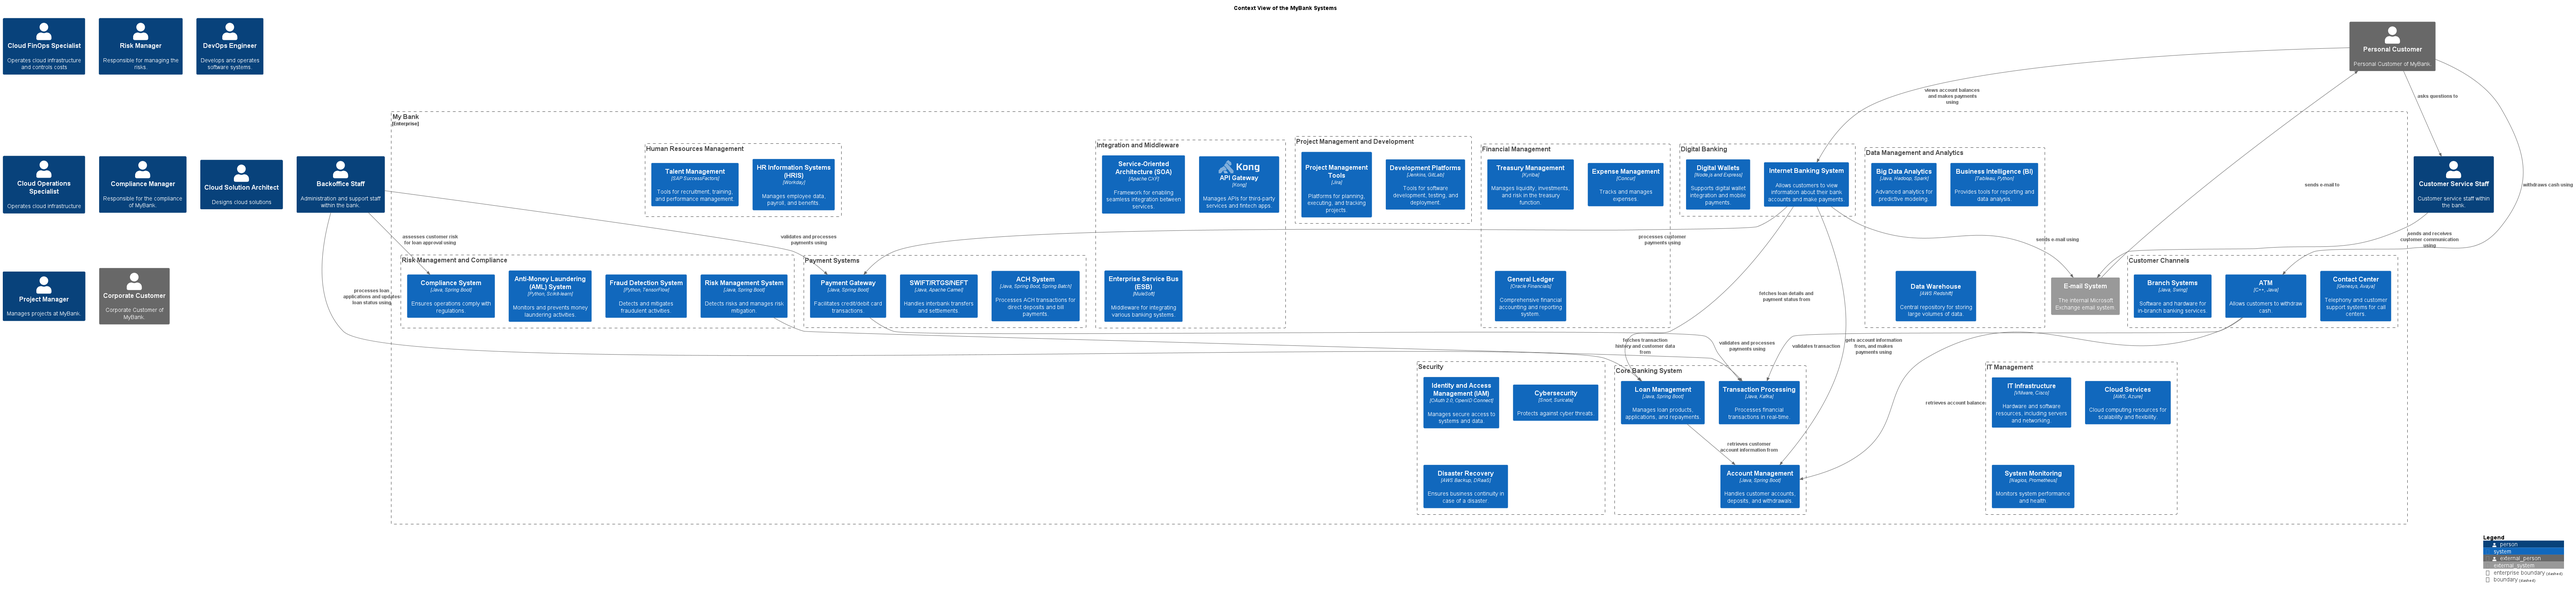
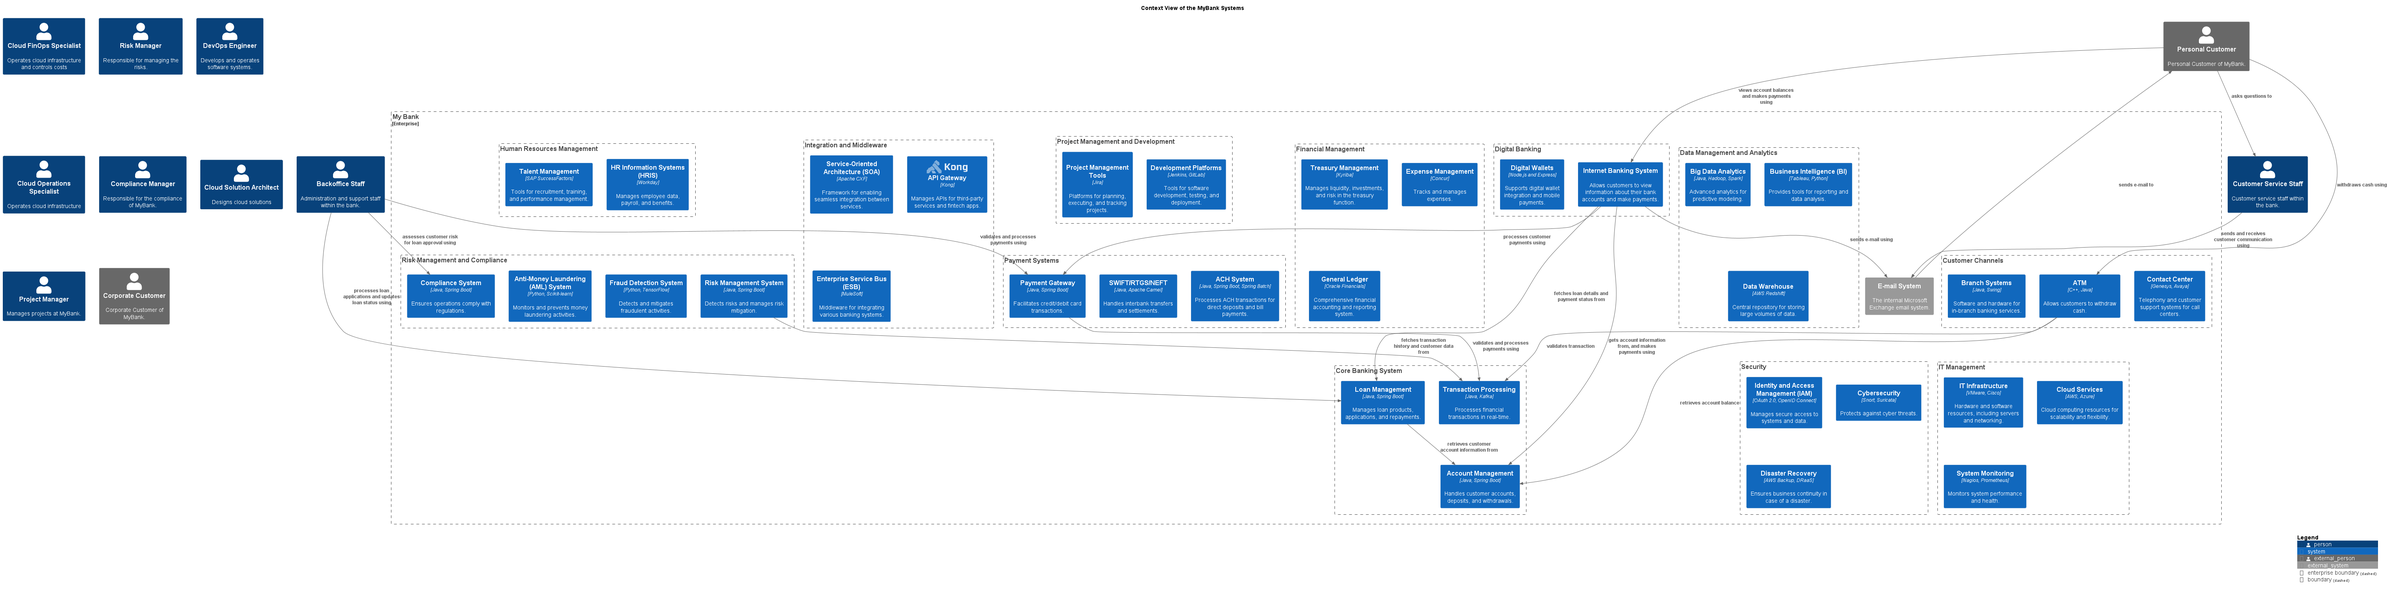
updated model and views

diff --git a/docs/mybank/views.md b/docs/mybank/views.md
@@ -7,15 +7,18 @@
 ## System Context Views
 | Title | Description |
 |---|---|
-| [Digital Banking Context View](../mybank/digital-banking/context-view.md) | Shows the systems of the domain digital banking and their relations. |
+| [Digital Banking Context View](../mybank/digital-banking/context-view.md) | Shows the systems of the domain Digital Banking and their relations. |
+| [Human Resources Context View](../mybank/human-resources/context-view.md) | Shows the systems of the domain Human Resources and their relations. |
 | [Security Context View](../mybank/security/context-view.md) | Shows the systems of the domain Security and their relations. |
 | [Project Management Context View](../mybank/project-management/context-view.md) | Shows the systems of the domain Project Management and their relations. |
-| [Payment Context View](../mybank/payment/context-view.md) | Shows the systems of the domain Core Banking and their relations. |
+| [Customer Channels Context View](../mybank/customer-channels/context-view.md) | Shows the systems of the domain Customer Channels and their relations. |
 | [Compliance & Risk Management Context View](../mybank/compliance/context-view.md) | Shows the systems of the domain Compliance & Risk Management and their relations. |
 | [Financial Management Context View](../mybank/financial-management/context-view.md) | Shows the systems of the domain Financial Management and their relations. |
 | [Core Banking Context View](../mybank/core-banking/context-view.md) | Shows the systems of the domain Core Banking and their relations. |
 | [Context View](../mybank/context-view.md) | shows the systems of MyBank |
 | [IT Management Context View](../mybank/it-management/context-view.md) | Shows the systems of the domain IT management and their relations. |
+| [Data Management Context View](../mybank/data-management/context-view.md) | Shows the systems of the domain Data Management and their relations. |
+| [Payment Context View](../mybank/payment/context-view.md) | Shows the systems of the domain Payment and their relations. |
 ## Container Views
 | Title | Description |
 |---|---|
@@ -23,7 +26,10 @@
 | [Security Container View](../mybank/security/container-view.md) | Shows the systems and containers of the domain Security and their relations. |
 | [Banking Container View](../mybank/container-view.md) | shows the containers of the MyBank Systems |
 | [Compliance & Risk Management Container View](../mybank/compliance/container-view.md) | Shows the systems and containers of the domain Compliance & Risk Management and their relations. |
+| [Human Resources Container View](../mybank/human-resources/container-view.md) | Shows the systems and containers of the domain Human Resources and their relations. |
+| [Customer Channels Container View](../mybank/customer-channels/container-view.md) | Shows the systems and containers of the domain Customer Channels and their relations. |
 | [Financial Management Container View](../mybank/financial-management/container-view.md) | Shows the systems and containers of the domain Financial Management and their relations. |
+| [Data Management Container View](../mybank/data-management/container-view.md) | Shows the systems and containers of the domain Data Management and their relations. |
 | [IT Management Container View](../mybank/it-management/container-view.md) | Shows the systems and containers of the domain IT management and their relations. |
 | [Core Banking Container View](../mybank/core-banking/container-view.md) | Shows the systems and containers of the domain Core Banking and their relations. |
 | [Digital Banking Container View](../mybank/digital-banking/container-view.md) | Shows the systems and containers of the domain digital banking and their relations. |
@@ -31,7 +37,7 @@
 ## Component Views
 | Title | Description |
 |---|---|
-| [Digital Banking Component View](../mybank/digital-banking/component-view.md) | Shows the systems, containers and components of the domain digital banking and their relations. |
+| [Digital Banking Component View](../mybank/digital-banking/component-view.md) | Shows the systems, containers and components of the domain Digital Banking and their relations. |
 ## Deployment Views
 | Title | Description |
 |---|---|

diff --git a/docs/mybank/data-management/container-view.md b/docs/mybank/data-management/container-view.md
@@ -1,0 +1,16 @@
+# Container View of the Data Management Systems
+
+## Diagramm
+![Container View of the Data Management Systems](../../mybank/data-management/container-view.png)
+
+## Description
+Shows the systems and containers of the domain Data Management and their relations.
+## Systems
+| Name | Description |
+|---|---|
+| [Big Data Analytics](../../mybank/data-management/big-data-analytics-system.md) | Advanced analytics for predictive modeling. |
+| [Data Warehouse](../../mybank/data-management/data-warehouse-system.md) | Central repository for storing large volumes of data. |
+| [Business Intelligence (BI)](../../mybank/data-management/business-intelligence-system.md) | Provides tools for reporting and data analysis. |
+
+
+(generated with docs/views/container-view.md.cmb)

diff --git a/docs/mybank/data-management/context-view.md b/docs/mybank/data-management/context-view.md
@@ -1,0 +1,16 @@
+# Context View of the Data Management Systems
+
+## Diagramm
+![Context View of the Data Management Systems](../../mybank/data-management/context-view.png)
+
+## Description
+Shows the systems of the domain Data Management and their relations.
+## Systems
+| Name | Description |
+|---|---|
+| [Big Data Analytics](../../mybank/data-management/big-data-analytics-system.md) | Advanced analytics for predictive modeling. |
+| [Data Warehouse](../../mybank/data-management/data-warehouse-system.md) | Central repository for storing large volumes of data. |
+| [Business Intelligence (BI)](../../mybank/data-management/business-intelligence-system.md) | Provides tools for reporting and data analysis. |
+
+
+(generated with docs/views/context-view.md.cmb)

diff --git a/docs/mybank/customer-channels/container-view.md b/docs/mybank/customer-channels/container-view.md
@@ -1,0 +1,16 @@
+# Container View of the Customer Channels Systems
+
+## Diagramm
+![Container View of the Customer Channels Systems](../../mybank/customer-channels/container-view.png)
+
+## Description
+Shows the systems and containers of the domain Customer Channels and their relations.
+## Systems
+| Name | Description |
+|---|---|
+| [Branch Systems](../../mybank/customer-channels/branch-systems.md) | Software and hardware for in-branch banking services. |
+| [ATM](../../mybank/customer-channels/atm.md) | Allows customers to withdraw cash. |
+| [Contact Center](../../mybank/customer-channels/contact-center-system.md) | Telephony and customer support systems for call centers. |
+
+
+(generated with docs/views/container-view.md.cmb)

diff --git a/docs/mybank/customer-channels/context-view.md b/docs/mybank/customer-channels/context-view.md
@@ -1,0 +1,16 @@
+# Context View of the Customer Channels Systems
+
+## Diagramm
+![Context View of the Customer Channels Systems](../../mybank/customer-channels/context-view.png)
+
+## Description
+Shows the systems of the domain Customer Channels and their relations.
+## Systems
+| Name | Description |
+|---|---|
+| [Branch Systems](../../mybank/customer-channels/branch-systems.md) | Software and hardware for in-branch banking services. |
+| [ATM](../../mybank/customer-channels/atm.md) | Allows customers to withdraw cash. |
+| [Contact Center](../../mybank/customer-channels/contact-center-system.md) | Telephony and customer support systems for call centers. |
+
+
+(generated with docs/views/context-view.md.cmb)

diff --git a/docs/mybank/human-resources/container-view.md b/docs/mybank/human-resources/container-view.md
@@ -1,0 +1,15 @@
+# Container View of the Human Resources Systems
+
+## Diagramm
+![Container View of the Human Resources Systems](../../mybank/human-resources/container-view.png)
+
+## Description
+Shows the systems and containers of the domain Human Resources and their relations.
+## Systems
+| Name | Description |
+|---|---|
+| [HR Information Systems (HRIS)](../../mybank/human-resources/hris.md) | Manages employee data, payroll, and benefits. |
+| [Talent Management](../../mybank/human-resources/talent-management-system.md) | Tools for recruitment, training, and performance management. |
+
+
+(generated with docs/views/container-view.md.cmb)

diff --git a/docs/mybank/human-resources/context-view.md b/docs/mybank/human-resources/context-view.md
@@ -1,0 +1,15 @@
+# Context View of the Human Resources Systems
+
+## Diagramm
+![Context View of the Human Resources Systems](../../mybank/human-resources/context-view.png)
+
+## Description
+Shows the systems of the domain Human Resources and their relations.
+## Systems
+| Name | Description |
+|---|---|
+| [HR Information Systems (HRIS)](../../mybank/human-resources/hris.md) | Manages employee data, payroll, and benefits. |
+| [Talent Management](../../mybank/human-resources/talent-management-system.md) | Tools for recruitment, training, and performance management. |
+
+
+(generated with docs/views/context-view.md.cmb)

diff --git a/docs/mybank/digital-banking/component-view.md b/docs/mybank/digital-banking/component-view.md
@@ -4,7 +4,7 @@
 ![Component View of the Digital Banking Systems](../../mybank/digital-banking/component-view.png)
 
 ## Description
-Shows the systems, containers and components of the domain digital banking and their relations.
+Shows the systems, containers and components of the domain Digital Banking and their relations.
 
 
 (generated with docs/views/component-view.md.cmb)

diff --git a/docs/mybank/digital-banking/context-view.md b/docs/mybank/digital-banking/context-view.md
@@ -4,7 +4,7 @@
 ![Context View of the Digital Banking Systems](../../mybank/digital-banking/context-view.png)
 
 ## Description
-Shows the systems of the domain digital banking and their relations.
+Shows the systems of the domain Digital Banking and their relations.
 ## Systems
 | Name | Description |
 |---|---|

diff --git a/docs/mybank/payment/context-view.md b/docs/mybank/payment/context-view.md
@@ -4,7 +4,7 @@
 ![Context View of the Payment Systems](../../mybank/payment/context-view.png)
 
 ## Description
-Shows the systems of the domain Core Banking and their relations.
+Shows the systems of the domain Payment and their relations.
 ## Systems
 | Name | Description |
 |---|---|

diff --git a/docs/mybank/customer-channels/contact-center-system.md b/docs/mybank/customer-channels/contact-center-system.md
@@ -5,5 +5,8 @@ Telephony and customer support systems for call centers.
 
 ## Interfaces
 
+## System Context View
+![Context View of the Customer Channels Systems](../../mybank/customer-channels/context-view.png)
+
 
 (generated with docs/architecture-node.md.cmb)

diff --git a/docs/mybank/human-resources/talent-management-system.md b/docs/mybank/human-resources/talent-management-system.md
@@ -5,5 +5,8 @@ Tools for recruitment, training, and performance management.
 
 ## Interfaces
 
+## System Context View
+![Context View of the Human Resources Systems](../../mybank/human-resources/context-view.png)
+
 
 (generated with docs/architecture-node.md.cmb)
